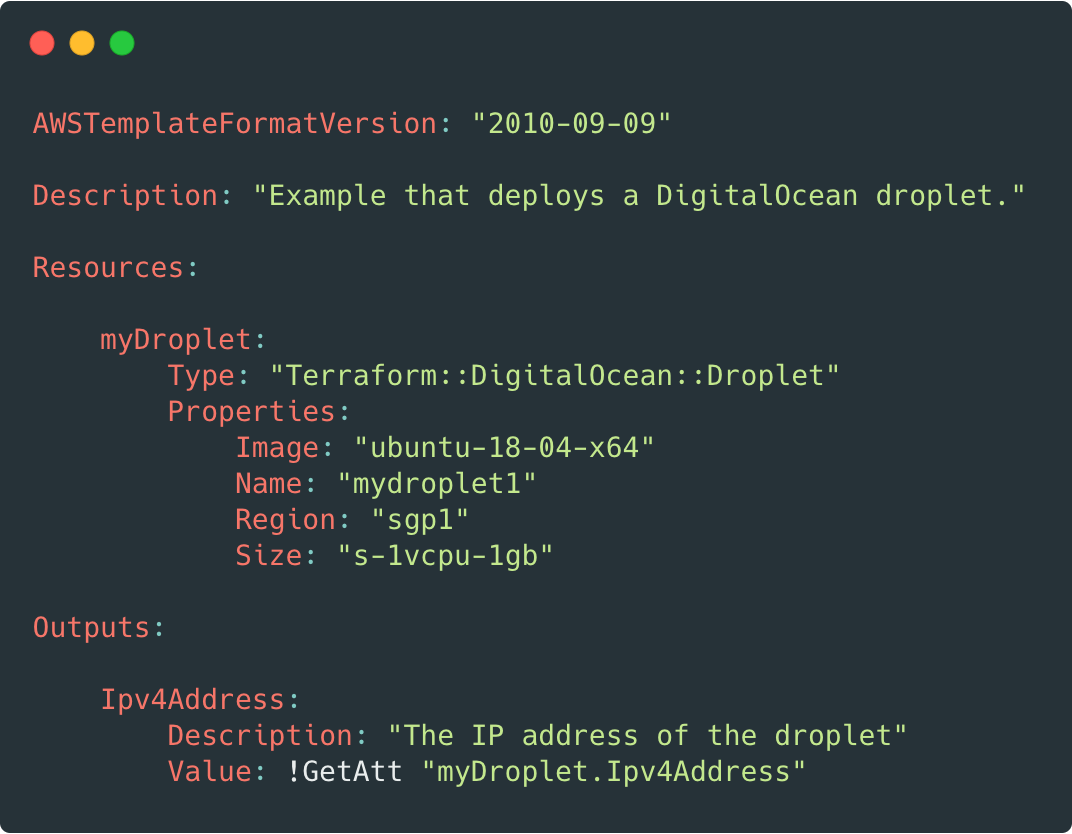
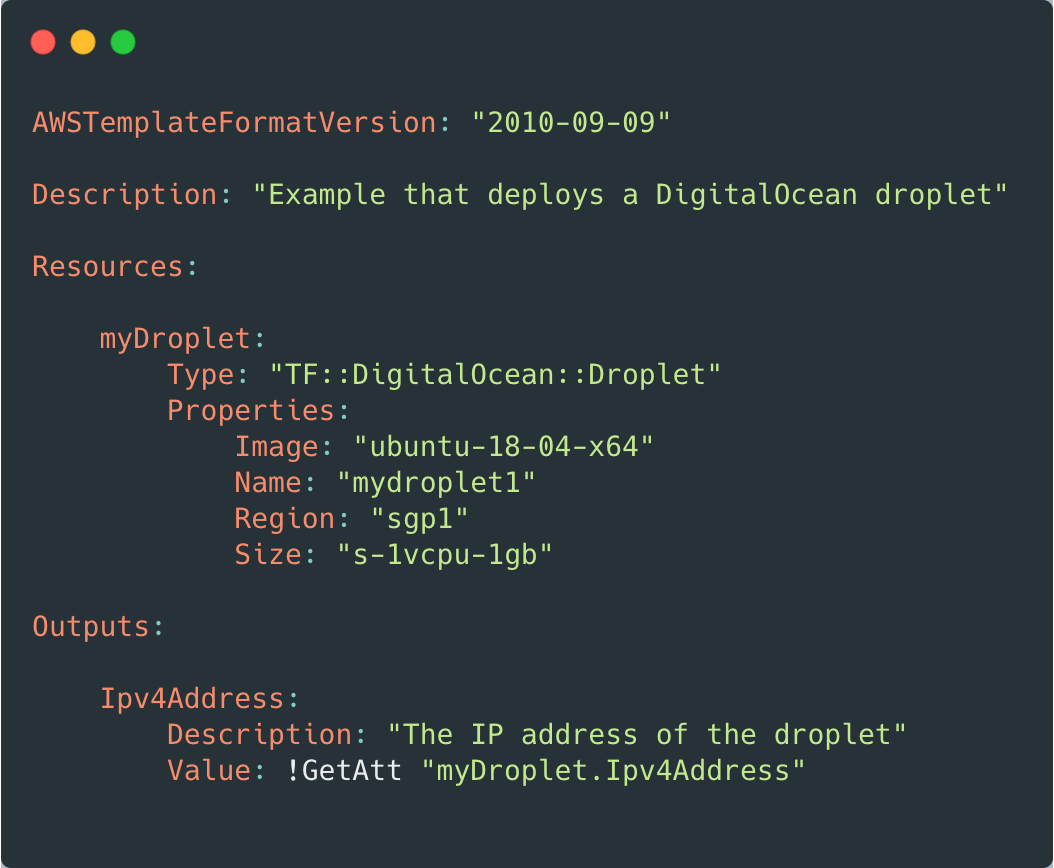
Update prefix

diff --git a/generate.py b/generate.py
@@ -202,7 +202,12 @@ def tf_type_to_cfn_type(tf_name, provider_name):
     split_provider_name = tf_name.split("_")
     split_provider_name.pop(0)
     cfn_provider_name = PROVIDERS_MAP[provider_name][0]
-    return "Terraform::" + cfn_provider_name + "::" + tf_to_cfn_str("_".join(split_provider_name))
+
+    prefix = "TF"
+    if len(sys.argv) > 2:
+        prefix = sys.argv[2]
+
+    return prefix + "::" + cfn_provider_name + "::" + tf_to_cfn_str("_".join(split_provider_name))
 
 
 def exec_call(args, cwd):
@@ -346,9 +351,13 @@ def process_provider(provider_type):
         endnaming = tf_to_cfn_str(k)
         if k.startswith(provider_type + "_"):
             endnaming = tf_to_cfn_str(k[(len(provider_type)+1):])
+
+        prefix = "TF"
+        if len(sys.argv) > 2:
+            prefix = sys.argv[2]
         
-        cfntypename = "Terraform::" + PROVIDERS_MAP[provider_type][0] + "::" + endnaming
-        cfndirname = "Terraform-" + PROVIDERS_MAP[provider_type][0] + "-" + endnaming
+        cfntypename = prefix + "::" + PROVIDERS_MAP[provider_type][0] + "::" + endnaming
+        cfndirname = prefix + "-" + PROVIDERS_MAP[provider_type][0] + "-" + endnaming
 
         try:
             providerdir = Path('.') / 'resources' / provider_type / cfndirname
@@ -466,6 +475,7 @@ def process_provider(provider_type):
                                 schema['properties'][cfnattrname]['description'] = docarg['description']
 
             if 'block_types' in v['block']:
+                override_block = {}
                 for blockname, block in v['block']['block_types'].items():
                     cfnblockname = tf_to_cfn_str(blockname)
 
@@ -498,8 +508,18 @@ def process_provider(provider_type):
                         schema['properties'][cfnblockname]['maxItems'] = block['max_items']
                     if 'min_items' in block:
                         schema['properties'][cfnblockname]['minItems'] = block['min_items']
-                    
+
+                    # TODO: Add overrides.json
+                    override_block["/" + cfnblockname] = {}
+
                 outstandingblocks.update(v['block']['block_types'])
+
+                overrides = {
+                    "CREATE": override_block,
+                    "UPDATE": override_block
+                }
+                with open(providerdir / "overrides.json", "w") as f:
+                    f.write(json.dumps(overrides))
             
             while len(outstandingblocks):
                 blockname = next(iter(outstandingblocks))
@@ -828,8 +848,12 @@ def generate_docs(tempdir, provider_type, tfschema, provider_data):
                 endnaming = tf_to_cfn_str(k)
                 if k.startswith(provider_type + "_"):
                     endnaming = tf_to_cfn_str(k[(len(provider_type)+1):])
+
+                prefix = "TF"
+                if len(sys.argv) > 2:
+                    prefix = sys.argv[2]
                 
-                cfn_type = "Terraform::" + PROVIDERS_MAP[provider_type][0] + "::" + endnaming
+                cfn_type = prefix + "::" + PROVIDERS_MAP[provider_type][0] + "::" + endnaming
                 
                 provider_readme_items.append("* [{cfn_type}](../resources/{provider_name}/{type_stub}/docs/README.md)".format(
                     cfn_type=cfn_type,
@@ -860,8 +884,12 @@ def generate_docs(tempdir, provider_type, tfschema, provider_data):
                 endnaming = tf_to_cfn_str(k)
                 if k.startswith(provider_type + "_"):
                     endnaming = tf_to_cfn_str(k[(len(provider_type)+1):])
+
+                prefix = "TF"
+                if len(sys.argv) > 2:
+                    prefix = sys.argv[2]
                 
-                cfn_type = "Terraform::" + PROVIDERS_MAP[provider_type][0] + "::" + endnaming
+                cfn_type = prefix + "::" + PROVIDERS_MAP[provider_type][0] + "::" + endnaming
                 
                 provider_readme_items.append("* [{cfn_type}](../resources/{provider_name}/{type_stub}/docs/README.md)".format(
                     cfn_type=cfn_type,

diff --git a/README.md b/README.md
@@ -56,7 +56,7 @@ Once you have generated the required resource files, you can submit the type to 
 ```
 python3 submit.py <resourcename>
 # For example:
-python3 submit.py Terraform::AWS::Instance
+python3 submit.py TF::AWS::Instance
 ```
 
 Note that resource submission will also generally take several minutes.
